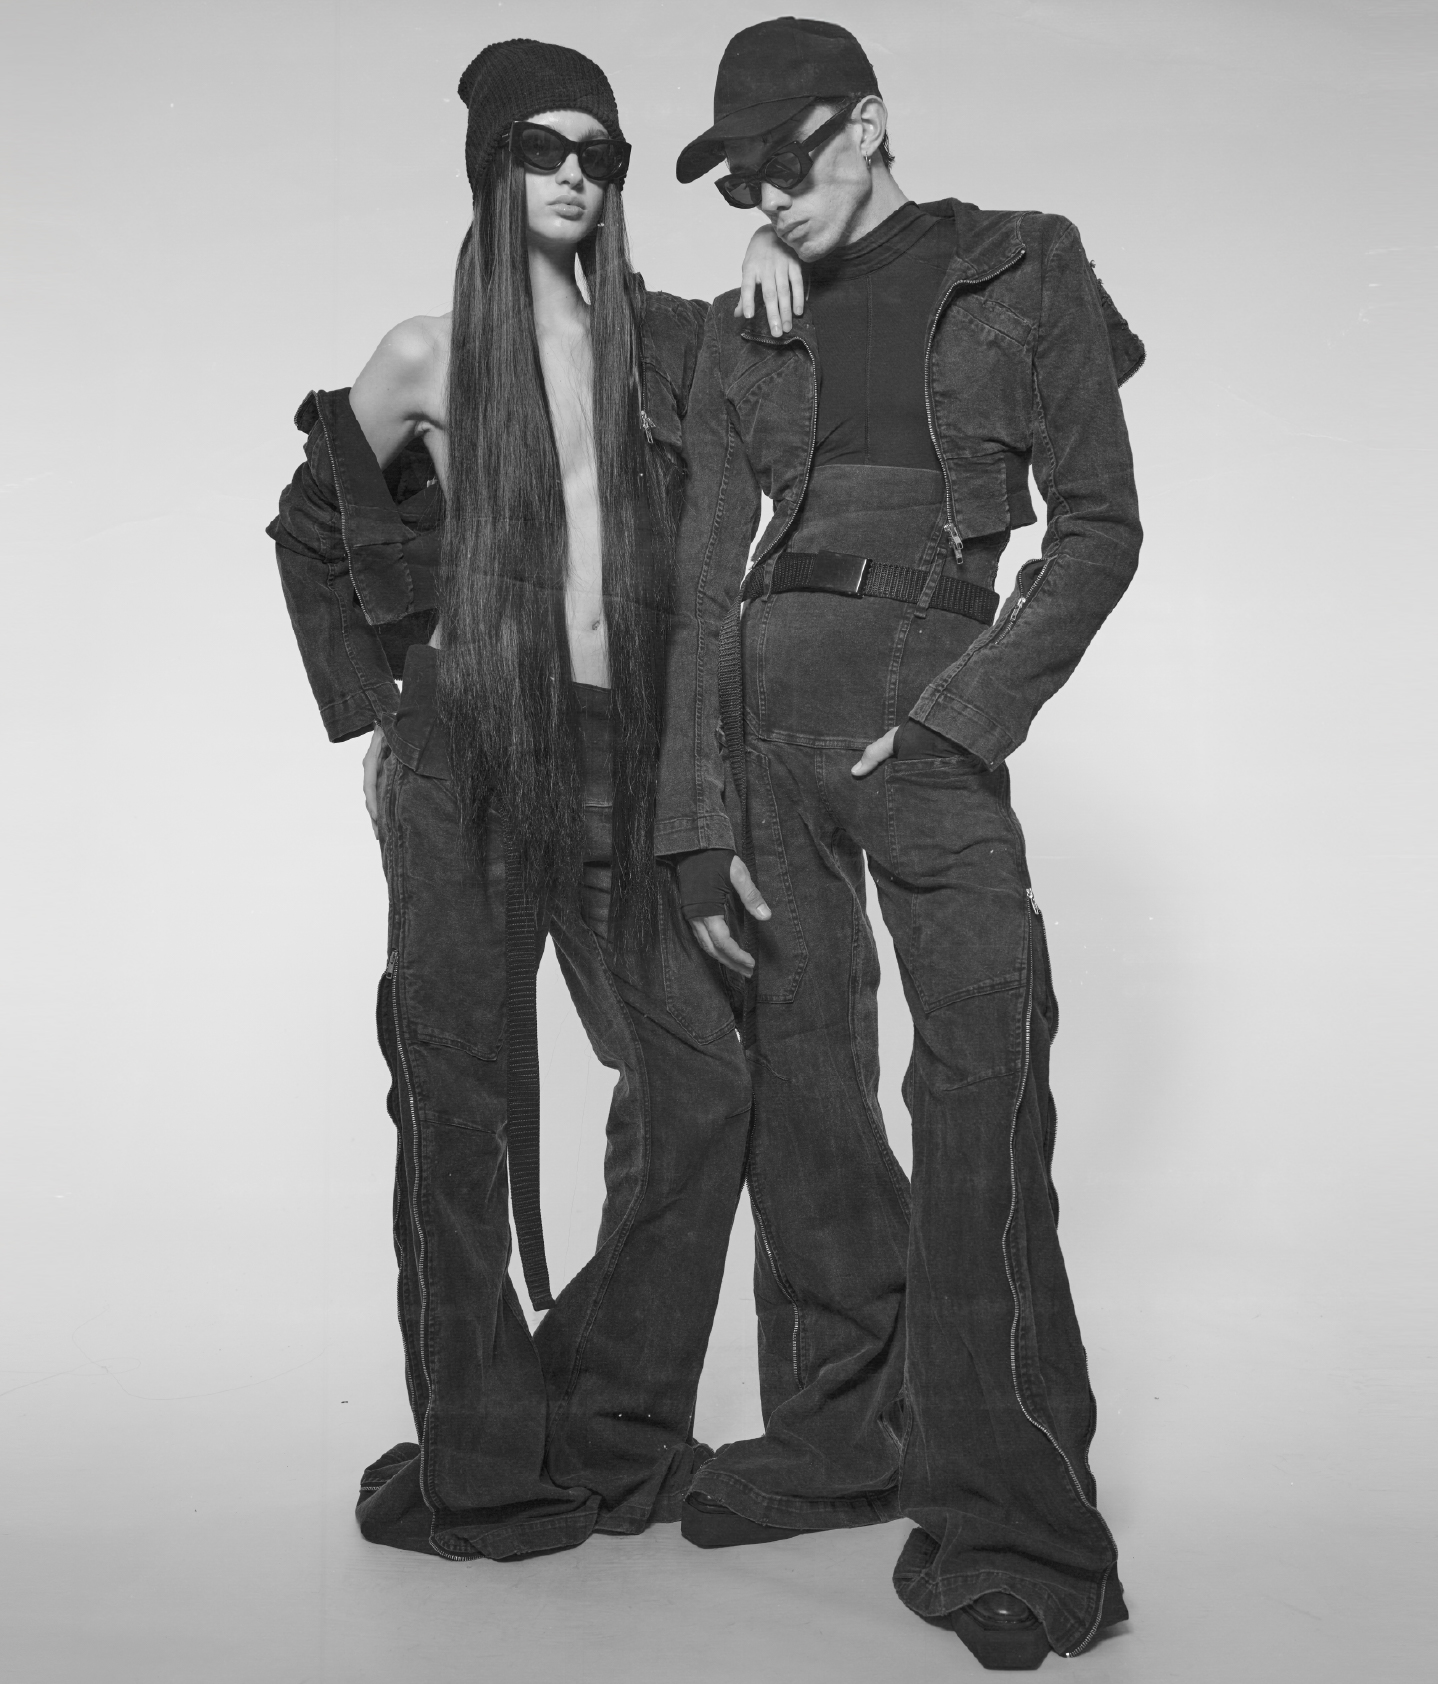
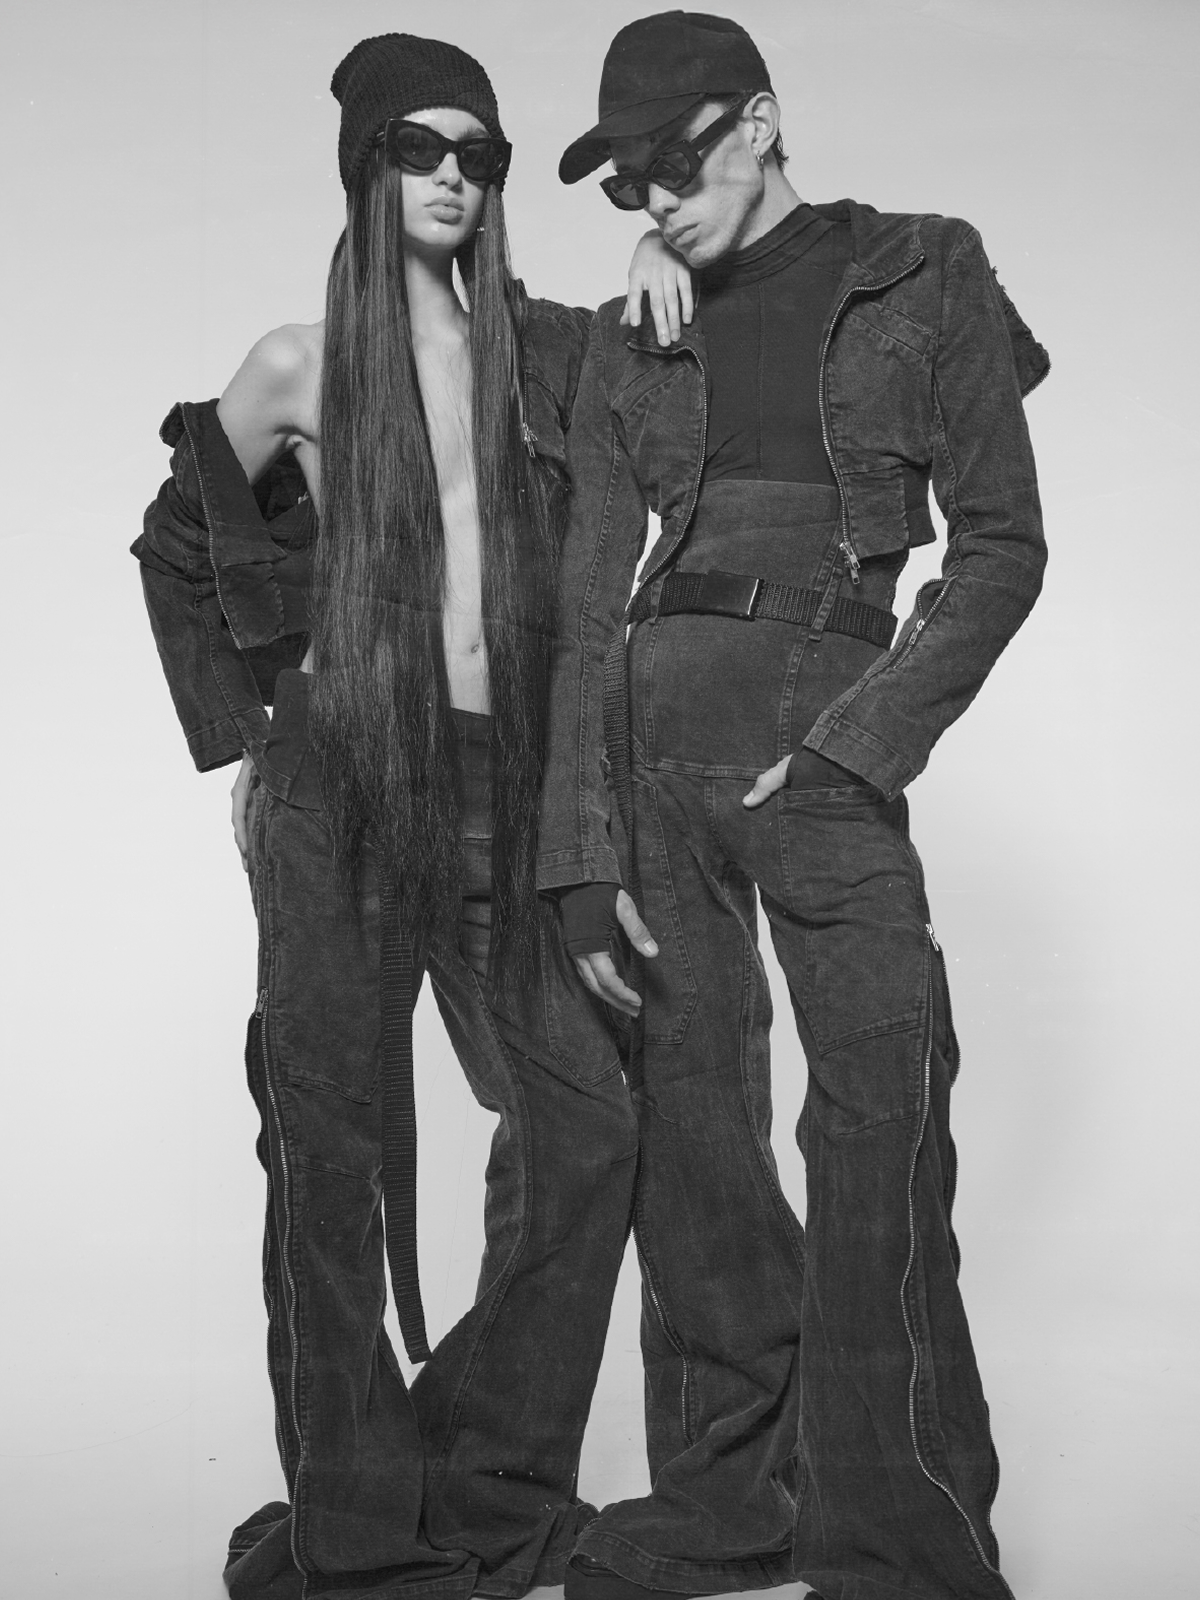
fix on image proportions

diff --git a/app/components/Gallery.tsx b/app/components/Gallery.tsx
@@ -27,67 +27,62 @@ const Gallery: React.FC<GalleryProps> = ({ link }) => {
 
   return (
     <div className="grid grid-cols-2 gap-2 md:grid-cols-4 px-4 lg:px-8">
-      {imageSet.map((item, index) => {
-
-
-        return (
-          <div
-            key={index}
-            className={`relative group ${
-              index < 2
-                ? "md:col-span-2 md:row-span-1"
-                : "md:col-span-1 md:row-span-2"
-            }`}
+      {imageSet.map((item, index) => (
+        <div
+          key={index}
+          className={`relative group ${
+            index < 2
+              ? "md:col-span-2" // Big cards span 2 columns
+              : "md:col-span-1" // Small cards span 1 column
+          }`}
+        >
+          <Link
+            href={
+              item.title === "SEAMM" || item.title === "KOSTÜME STORE"
+                ? item.link
+                : `${link}/${item.link}`
+            }
           >
-            <Link
-              href={
-                item.title === "SEAMM" || item.title === "KOSTÜME STORE"
-                  ? item.link
-                  : `${link}/${item.link}`
-              }
+            {/* Aspect Ratio Container */}
+            <div
+              className={`relative w-full aspect-[3/4]`} // All cards use 3:4 aspect ratio
             >
-              <div
-                className={`relative w-full h-0 ${
-                  index < 2 ? "pb-[150%] lg:pb-[100%]" : "pb-[150%]"
+              {item.type === "video" ? (
+                <video
+                  src={item.src}
+                  className="absolute inset-0 w-full h-full object-cover"
+                  autoPlay
+                  loop
+                  muted
+                  playsInline
+                />
+              ) : (
+                <img
+                  src={item.src}
+                  alt={item.title}
+                  className="absolute inset-0 w-full h-full object-cover"
+                />
+              )}
+            </div>
+            {/* Overlay Text */}
+            <div
+              className={`absolute inset-0 flex justify-center items-center bg-black transition-opacity duration-700 ${
+                typeof window !== "undefined" && window.innerWidth < 768
+                  ? "bg-opacity-50 opacity-100"
+                  : "bg-opacity-20 opacity-0 group-hover:opacity-100"
+              }`}
+            >
+              <span
+                className={`text-white text-center font-bold ${
+                  index < 2 ? "text-sm lg:text-lg" : "text-sm lg:text-base"
                 }`}
               >
-                {item.type === "video" ? (
-                  <video
-                    src={item.src}
-                    className="absolute inset-0 w-full h-full object-cover"
-                    autoPlay
-                    loop
-                    muted
-                    playsInline
-                    style={{ objectFit: "cover" }}
-                  />
-                ) : (
-                  <img
-                    src={item.src}
-                    alt={item.title}
-                    className="absolute inset-0 w-full h-full object-cover"
-                  />
-                )}
-              </div>
-              <div
-                className={`absolute inset-0 flex justify-center items-center bg-black transition-opacity duration-700 ${
-                  typeof window !== "undefined" && window.innerWidth < 768
-                    ? "bg-opacity-50 opacity-100"
-                    : "bg-opacity-20 opacity-0 group-hover:opacity-100"
-                }`}
-              >
-                <span
-                  className={`text-white text-center font-bold ${
-                    index < 2 ? "text-sm lg:text-lg" : "text-sm lg:text-base"
-                  }`}
-                >
-                  {item.title}
-                </span>
-              </div>
-            </Link>
-          </div>
-        );
-      })}
+                {item.title}
+              </span>
+            </div>
+          </Link>
+        </div>
+      ))}
     </div>
   );
 };
